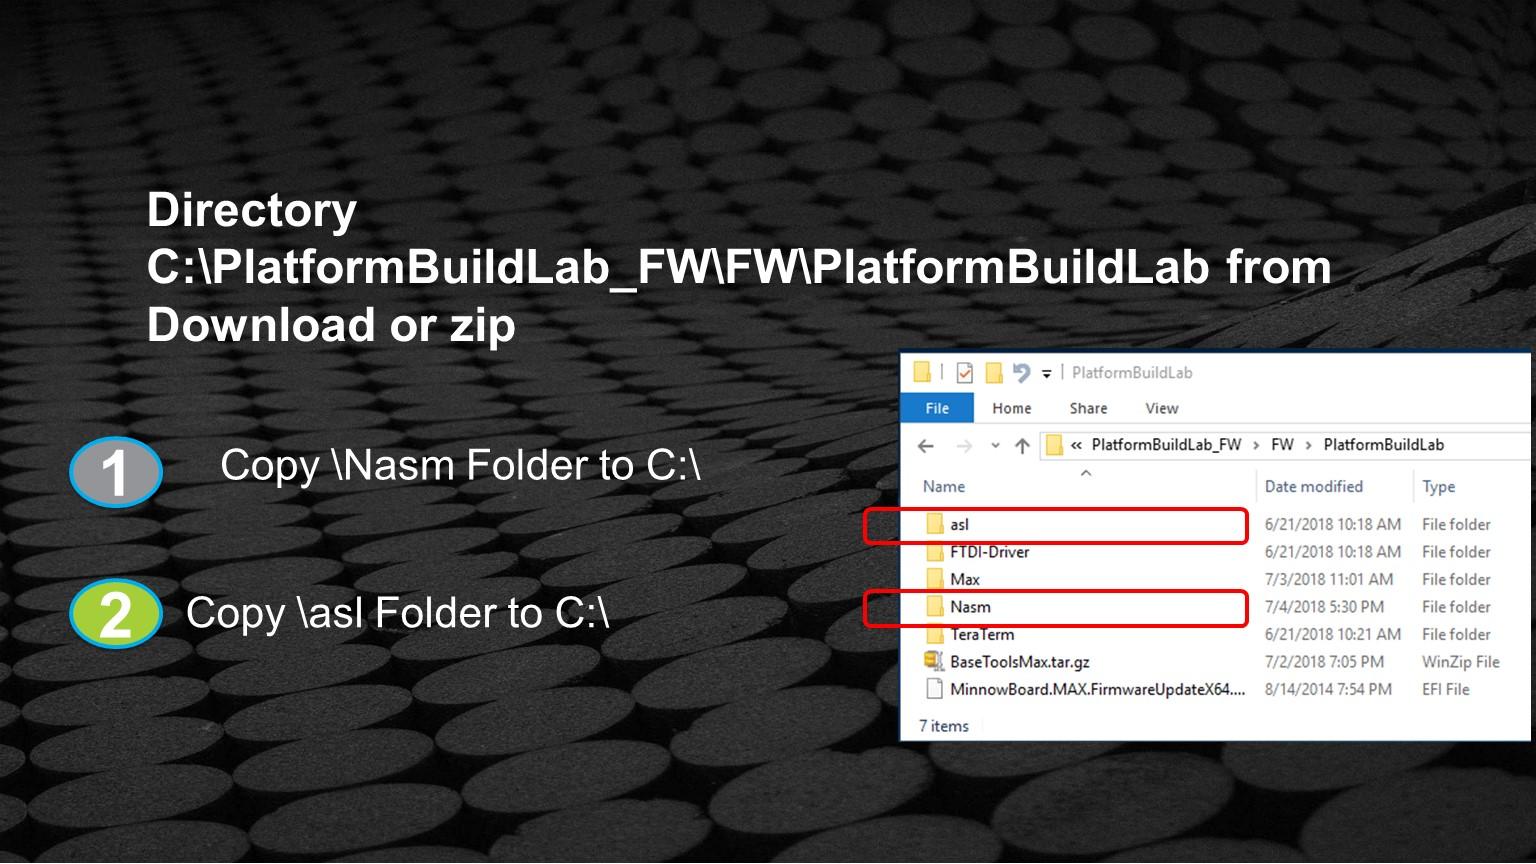
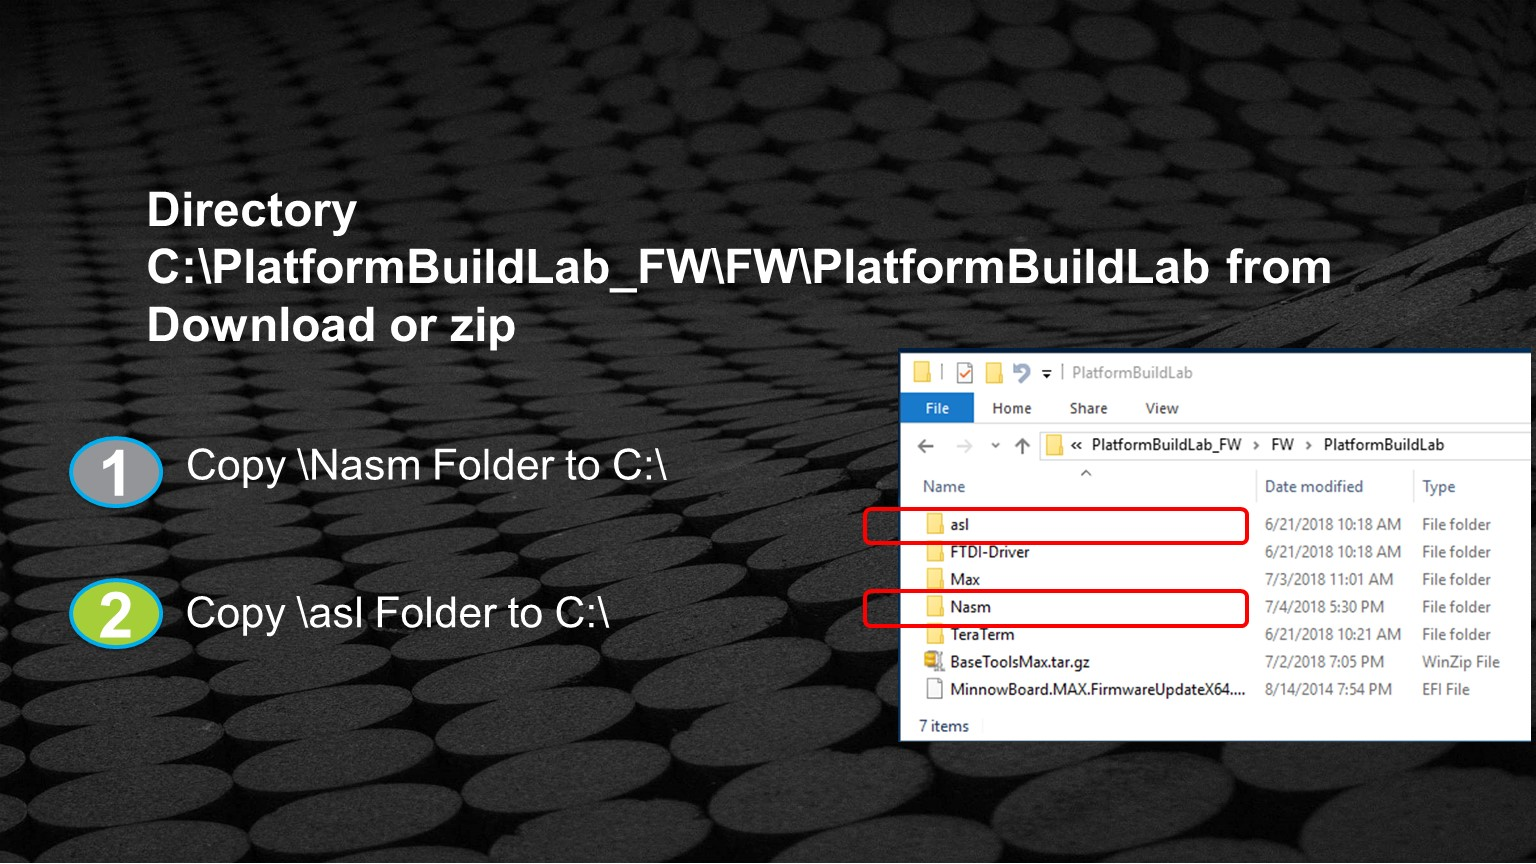
Signed-off-by: Laurie0131 <laurie.jarlstrom@intel.com>

Changed region(s): [[0.125, 0.5, 0.4688, 0.5625]]

diff --git a/PITCHME.md b/PITCHME.md
@@ -40,13 +40,13 @@ Note:
 
 ---  
 @title[Lesson Objective]
-<BR>
+
 ### <p align="center"<span class="gold"   >Platform Build Labs </span></p>
 <span style="font-size:0.9em">Lab Setup and Build for Nt32 or Minnowboard Max/Turbot</span> <br>
 <br>
 <!---  Add bullets using https://fontawesome.com/cheatsheet certificate
 -->
- @fa[certificate gp-bullet-magenta]<span style="font-size:0.9em">&nbsp;&nbsp;Pin Visual Studio Command Prompt to Windows Task Bar  </span><br><br>
+ @fa[certificate gp-bullet-magenta]<span style="font-size:0.9em">&nbsp;&nbsp;Pin Visual Studio Command Prompt to Windows <br>&nbsp;&nbsp;&nbsp;&nbsp;&nbsp;&nbsp;&nbsp;&nbsp;Task Bar  </span><br><br>
  @fa[certificate gp-bullet-green]<span style="font-size:0.9em">&nbsp;&nbsp;<a href='https://gitpitch.com/Laurie0131/Platform_Build_Win_Lab/master#/2'>Lab 1:</a> Build a EDK II Platform using Nt32 package </span><br><br>
  @fa[certificate gp-bullet-cyan]<span style="font-size:0.9em">&nbsp;&nbsp;<a href='https://gitpitch.com/Laurie0131/Platform_Build_Win_Lab/master#/18'>Lab 2:</a> Hardware Setup for Minnowboard Max/Turbot </span><br><br>
  @fa[certificate gp-bullet-yellow]<span style="font-size:0.9em">&nbsp;&nbsp;<a href='https://gitpitch.com/Laurie0131/Platform_Build_Win_Lab/master#/26'>Lab 3:</a> Build a EDK II Platform using Minnowboard <br>&nbsp;&nbsp;&nbsp;&nbsp;&nbsp;&nbsp;&nbsp;&nbsp;Max/Turbot </span> <br><br>
@@ -57,7 +57,7 @@ Note:
 @title[Pin VS CMD Prompt Section]
 <br><br><br><br><br>
 ## <span class="gold"  >&nbsp;&nbsp;&nbsp;&nbsp;&nbsp;Pin VS Command Prompt </span>
-<span style="font-size:0.9em" > &nbsp;&nbsp;&nbsp;&nbsp;&nbsp;&nbsp;&nbsp;&nbsp;&nbsp;Pin the Visual Studio Command prompt to Windows Task Bar</span>
+<span style="font-size:0.9em" > &nbsp;&nbsp;&nbsp;&nbsp;&nbsp;&nbsp;&nbsp;&nbsp;&nbsp;Pin the Visual Studio Command prompt to Windows <br>&nbsp;&nbsp;&nbsp;&nbsp;&nbsp;&nbsp;&nbsp;&nbsp;&nbsp;Task Bar</span>
 
 
 ---?image=/assets/images/slides/Slide4.JPG
@@ -112,7 +112,7 @@ Note:
 @title[Lab 1 -Build OVMF Section]
 <br><br><br><br><br>
 ## <span class="gold"  >&nbsp;&nbsp;&nbsp;&nbsp;&nbsp;Lab 1: Build Nt32Pkg</span>
-<span style="font-size:0.9em" > &nbsp;&nbsp;&nbsp;&nbsp;&nbsp;&nbsp;&nbsp;&nbsp;&nbsp;Setup Nt32Pkg to build and run NT32 emulation w/ Windows</span>
+<span style="font-size:0.9em" > &nbsp;&nbsp;&nbsp;&nbsp;&nbsp;&nbsp;&nbsp;&nbsp;&nbsp;Setup Nt32Pkg to build and run NT32 emulation <br> &nbsp;&nbsp;&nbsp;&nbsp;&nbsp;&nbsp;&nbsp;&nbsp;&nbsp;w/ Windows</span>
 
 
 
@@ -185,7 +185,7 @@ Extract the Downloaded Lab_Material_FW.zip to Home (this will create a directory
 ---?image=/assets/images/slides/Slide15.JPG
 @title[Build Nt32 Edk2 -getting the Source 02]
 ### <p align="right"><span class="gold" >Build EDK II Nt32</span><br></span></p>
-<p align="right"><span style="font-size:0.8em" ><font color="#e49436">–Getting the Source</font></span></p>
+<p align="right"><span style="font-size:0.8em" ><font color="#e49436">–Copy`edk2`</font></span></p>
 
 
 Note:
@@ -213,8 +213,10 @@ Note:
 <p align="right"><span style="font-size:0.8em" ><font color="#e49436">–Update Target.txt</font></span></p>
 
 Note:
-
+- `$ Cd C:/fw/edk2`
+- invoke `$ edksetup.bat`
 - change MYTOOLS to VS2013x86
+- `$ Build -D BUILD_NEW_SHELL`
 
 
 ---?image=/assets/images/slides/Slide19.JPG
@@ -226,7 +228,7 @@ Note:
 - 
 
 
----?image=/assets/images/slides/Slide29.JPG
+---?image=/assets/images/slides/Slide20.JPG
 @title[Build Nt32 Edk2 -invoke Nt32]
 ### <p align="right"><span class="gold" >Invoke Nt32 Emulation</span><br></span></p>
 
@@ -269,14 +271,14 @@ Note:
 ---?image=/assets/images/slides/Slide25.JPG
 @title[Instructions for Lab Materials]
 ### <p align="right"><span class="gold" >Instructions for Lab Materials</span></p>
-<div class="left1">Directory `C:\PlatformBuildLab_FW\FW\PlatformBuildLab` </span>
-<div class="left1">
+<span style="font-size:0.9em">Directory `C:\PlatformBuildLab_FW\FW\PlatformBuildLab` </span>
+<div class="left">
  <ul style="list-style-type:none">
-   <li><span style="font-size:0.8em">FTDI Driver for Serial UART Cable (COM Port)  <a href="http://www.ftdichip.com/FTDrivers.htm "> http://www.ftdichip.com/FTDrivers.htm </a></span> </li>
-   <li><span style="font-size:0.8em">TeraTerm (terminal software for COM Port)  <a href="https://en.osdn.jp/projects/ttssh2/releases/"> https://en.osdn.jp/projects/ttssh2/releases/</a></span> </li>
+   <li><span style="font-size:0.8em">FTDI Driver for Serial UART Cable (COM Port)  <a href="http://www.ftdichip.com/FTDrivers.htm "> ftdichip.com/FTDrivers.htm </a></span> </li>
+   <li><span style="font-size:0.8em">TeraTerm (terminal software for COM Port)  <a href="https://en.osdn.jp/projects/ttssh2/releases/"> ttssh2/releases/</a></span> </li>
  </ul>
 </div>
-<div class="right1">
+<div class="right">
 <div class="left1"> &nbsp;</span>
 </div>
 Note:
@@ -426,6 +428,10 @@ $ git clone https://github.com/Laurie0131/PlatformBuildLab_FW.git
 
 
 Note:
+- NASM
+  -   `Copy …Lab_Material_FW\FW\Nasm to C:\`
+
+
 
 
 ---?image=/assets/images/slides/Slide37.JPG
@@ -434,7 +440,10 @@ Note:
 
 
 Note:
-
+<pre>
+Copy \Nasm Folder to C:\
+Copy \asl Folder to C:\
+</pre>
 
 ---?image=/assets/images/slides/Slide38.JPG
 @title[Get the Minnowboard Max Source]
@@ -471,7 +480,7 @@ Note:
 </ol>
 <br>
 <br>
-<span style="font-size:0.7em"><font color="yellow"><i>Next slides will follow the above steps</i></font></span>
+<span style="font-size:0.8em"><font color="yellow"><i>Next slides will follow the above steps</i></font></span>
 
 
 Note:
@@ -481,7 +490,7 @@ Slide says it all
 ---?image=/assets/images/slides/Slide41.JPG
 @title[Open a VS Command Prompt]
 ### <p align="right"><span class="gold" >Open a VS Command Prompt </span></p>
-<span style="font-size:0.9em">Follow Steps from <a href="">here</a> to Pin the Visual Studio Command Prompt to the Windows Task Bar <br>Open a Visual Studio Command Prompt<span>
+<span style="font-size:0.9em">Follow Steps from <a href="https://gitpitch.com/Laurie0131/Platform_Build_Win_Lab/master#/2">here</a> to Pin the Visual Studio Command Prompt to the Windows Task Bar <br>Open a Visual Studio Command Prompt<span>
 
 
 Note:
@@ -767,7 +776,7 @@ Note:
 
 ---?image=/assets/images/slides/Slide67.JPG
 @title[Visual Studio Resource Compiler Error – Rc.exe]
-### <p align="right"><span class="gold" >Visual Studio Resource Compiler Error – Rc.exe</span></p>
+<p align="right"><span class="gold" >Visual Studio Resource Compiler Error – Rc.exe</span></p>
  
 Note:
 - The Rc.exe was not found and the build fails
